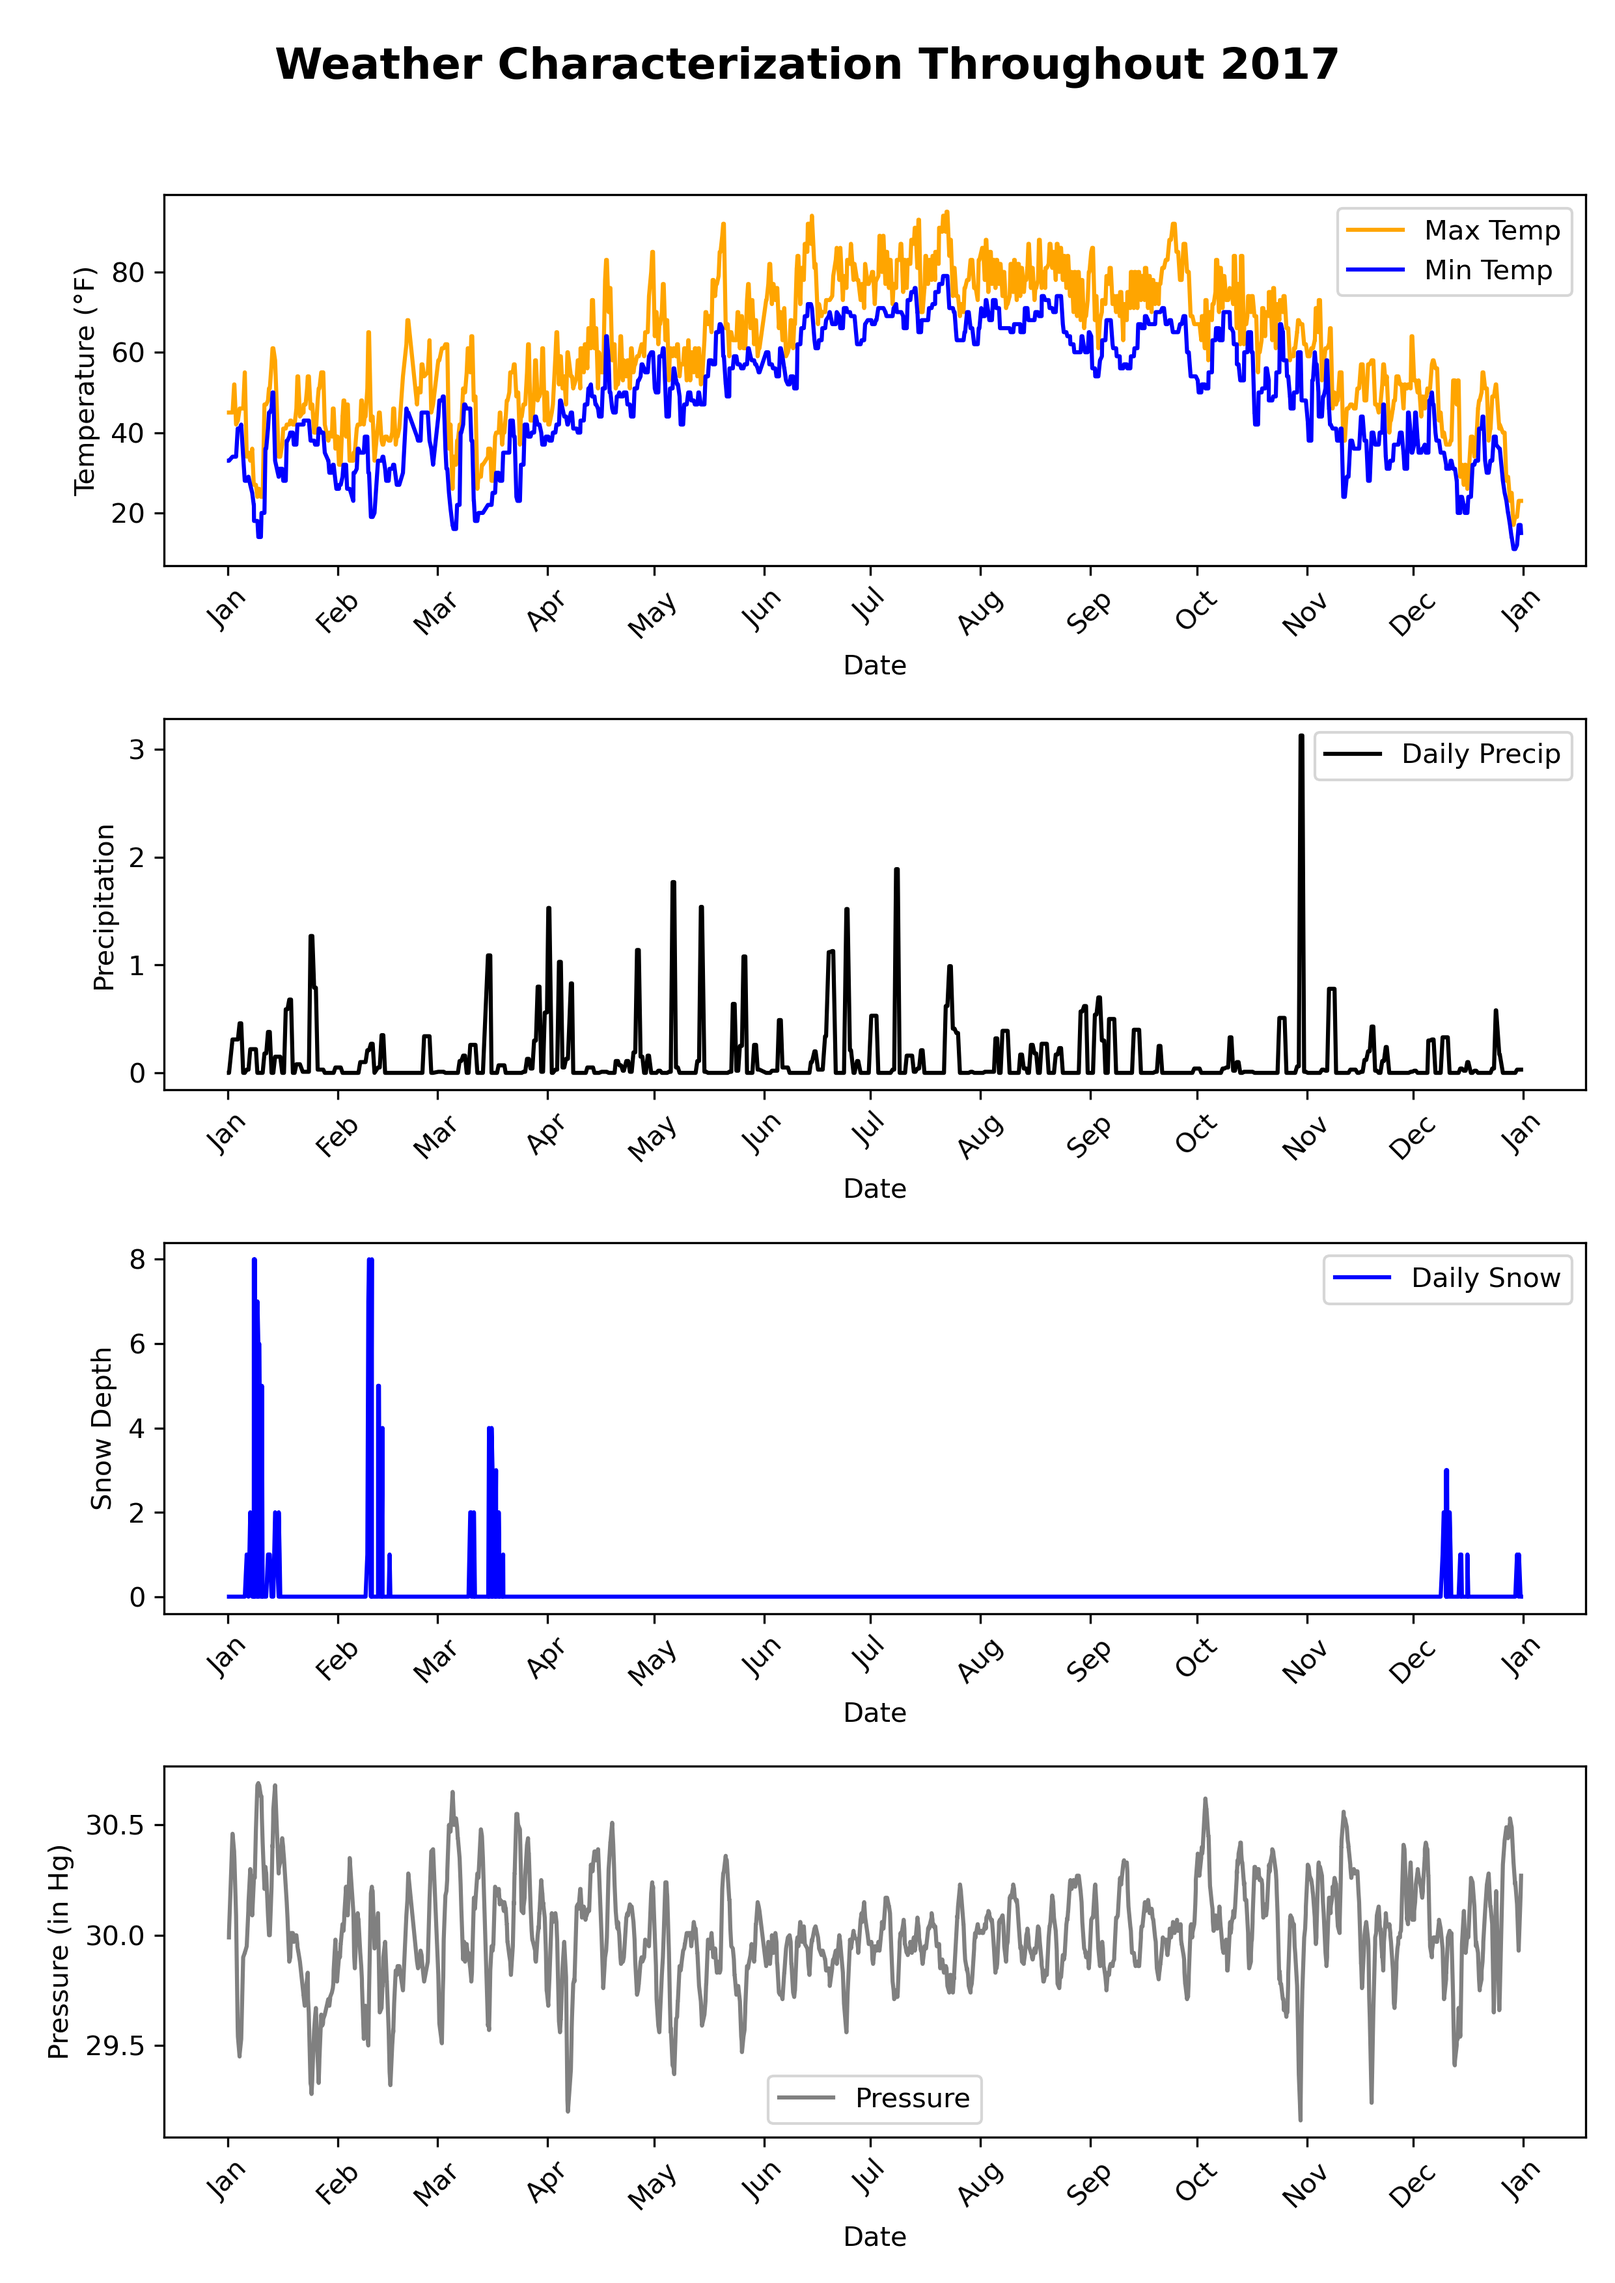
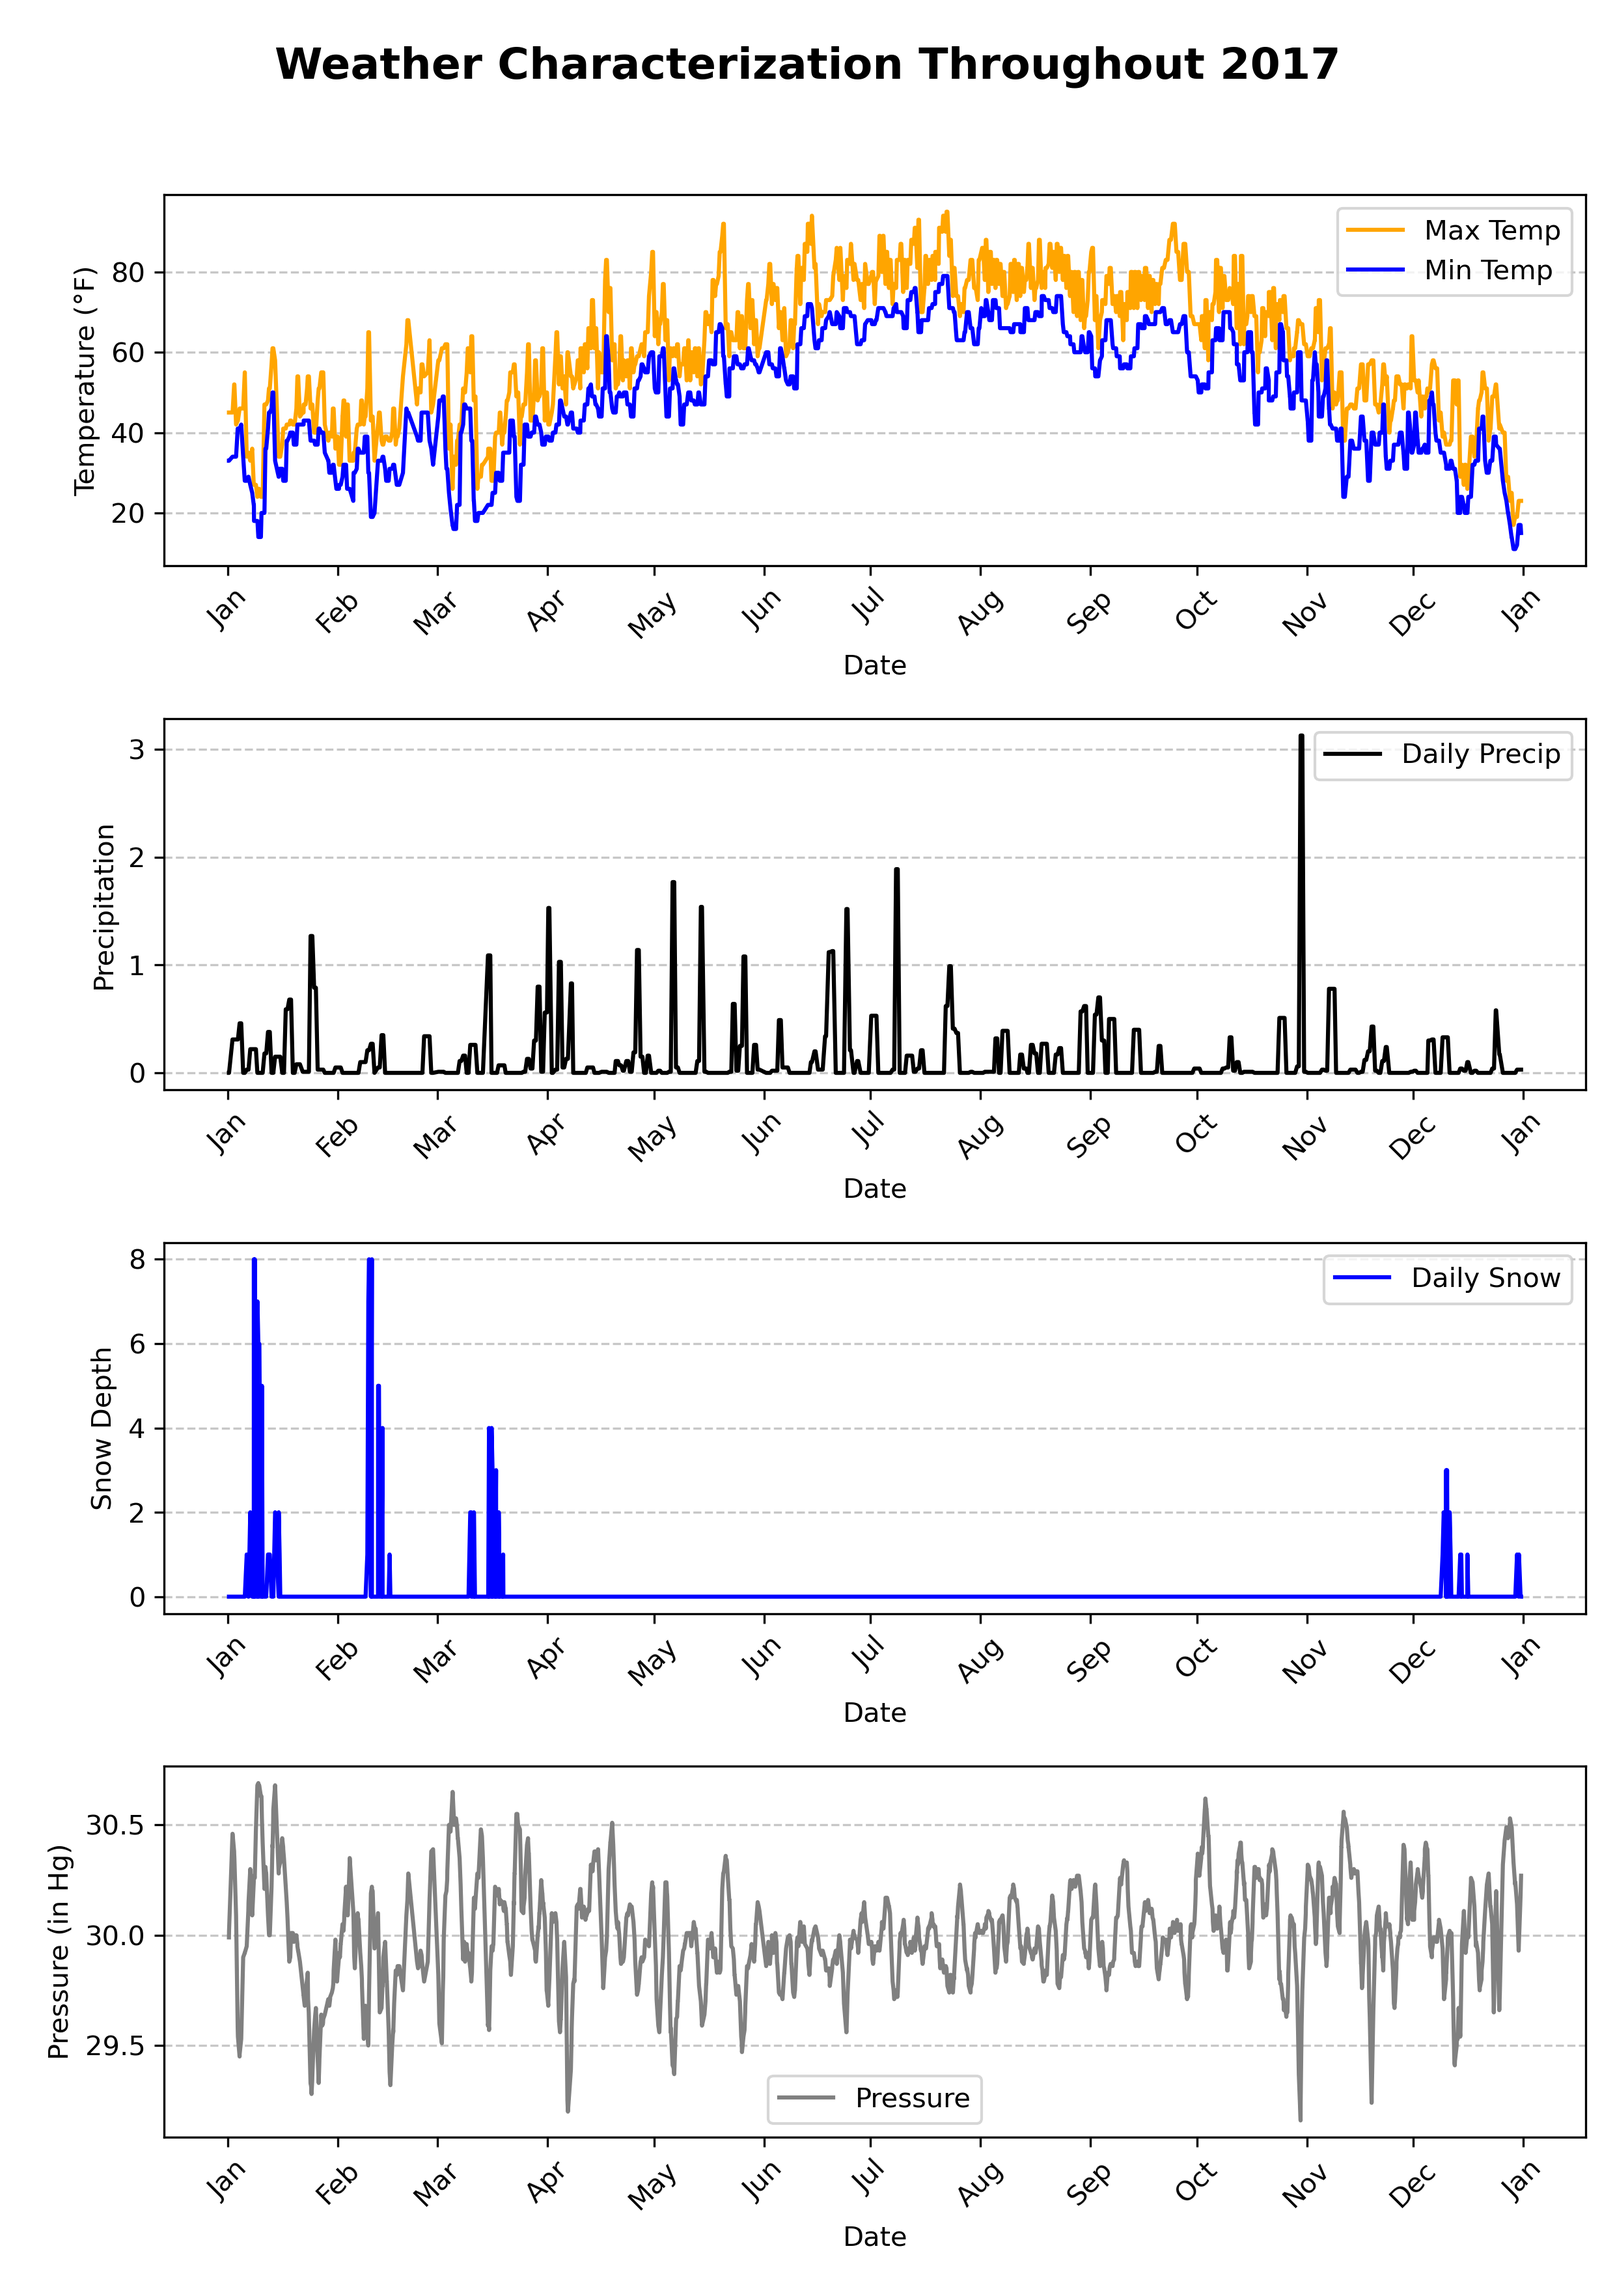
making graphs more beautiful

diff --git a/2_Data_exploration/stat_exploratoire.py b/2_Data_exploration/stat_exploratoire.py
@@ -154,31 +154,23 @@ def upload_to_s3(folder, file_name):
     buffer.close()'''
 
 
-#PARTIE 2 : Analyse exploratoire
-
-
-#STEP 1: Exploring the plane and weather datasets
-
-
-#weather_2017 = pd.read_csv('Pre-Processed_data/weather_2017.csv')
-#plane_weather = pd.read_csv('Pre-Processed_data/plane_weather.csv') #problem of encoding
-#TODO problem of encoding when i try to read files directly from S3
-
-
-
+#Load the data
 plane_weather = dataframes['plane_weather.csv']
 plane_weather_for_ML = dataframes['plane_weather_for_ML.csv']
 JFK_2017_number = dataframes['JFK_2017_number.csv']
 weather_2017 = dataframes['weather_2017.csv']
+plane_weather.drop(columns=['Unnamed: 0'], inplace=True)
+plane_weather_for_ML.drop(columns=['Unnamed: 0'], inplace=True)
+JFK_2017_number.drop(columns=['Unnamed: 0'], inplace=True)
+weather_2017.drop(columns=['Unnamed: 0'], inplace=True)
 
 
-
+#STEP 1: Exploring the plane and weather datasets
 
 plane_weather['Full_Departure_Datetime'] = pd.to_datetime(plane_weather['Full_Departure_Datetime'])
 plane_weather['DATE_weather'] = pd.to_datetime(plane_weather['DATE_weather'])
 print(plane_weather.info())
 
-'''
 # Retards moyens par mois
 plane_weather['Month'] = plane_weather['Full_Departure_Datetime'].dt.month
 monthly_delays = plane_weather.groupby('Month')[['DEP_DELAY', 'ARR_DELAY']].mean()
@@ -222,19 +214,19 @@ plt.grid(axis='y', linestyle='--', alpha=0.7)
 plt.savefig('/home/onyxia/work/Avions-Retard-et-Meteo/2_Data_exploration/pictures/3_Distrib_retard_météo.png')
 #upload_to_s3("Pictures", "3_Distrib_retard_météo.png")
 
-# Moyenne des retards dus aux conditions météorologiques par mois
-weather_delay_monthly = plane_weather.groupby('Month')['WEATHER_DELAY'].mean()
-
+# Somme des retards dus aux conditions météorologiques par mois
+weather_delay_monthly = plane_weather.groupby('Month')['WEATHER_DELAY'].sum()
 plt.figure(figsize=(10, 6))
 weather_delay_monthly.plot(kind='bar', color='teal', alpha=0.8, edgecolor='black')
-plt.title("Retards moyens dus à la météo par mois", fontsize=16)
-plt.ylabel("Retard moyen (minutes)", fontsize=12)
+plt.title("Somme des retards dus à la météo par mois", fontsize=16)
+plt.ylabel("Somme des retards (minutes)", fontsize=12)
 plt.xlabel("Mois", fontsize=12)
 plt.xticks(range(0, 12), ['Jan', 'Feb', 'Mar', 'Apr', 'May', 'Jun', 'Jul', 'Aug', 'Sep', 'Oct', 'Nov', 'Dec'], rotation=45)
 plt.grid(axis='y', linestyle='--', alpha=0.7)
-#plt.show()
-plt.savefig('/home/onyxia/work/Avions-Retard-et-Meteo/2_Data_exploration/pictures/4_Retard_météo_moyen.png')
+
+plt.savefig('/home/onyxia/work/Avions-Retard-et-Meteo/2_Data_exploration/pictures/4_Retard_météo_somme.png')
 #upload_to_s3("Pictures", "4_Retard_météo_moyen.png")
+plane_weather.drop(columns=['Month'], inplace=True)
 
 
 #Proportions of delays
@@ -262,8 +254,6 @@ plt.title('Average Proportion of Delay Explanations')
 
 plt.savefig('/home/onyxia/work/Avions-Retard-et-Meteo/2_Data_exploration/pictures/5_Proportions_of_delays.png')
 #upload_to_s3("Pictures", "5_Proportions_of_delay.png")
-
-#deleting the new columns
 plane_weather = plane_weather.drop(columns=['carrier_delay_ratio', 'weather_delay_ratio', 'unexplained_delay_ratio'])
 
 
@@ -284,12 +274,16 @@ def format_subplot(ax, data, x_column, y_column, label, color, ylabel):
 ax1 = plt.subplot(4, 1, 1)
 format_subplot(ax1, plane_weather, 'Full_Departure_Datetime', 'DAILYMaximumDryBulbTemp', 'Max Temp', 'orange', 'Temperature (°F)')
 sns.lineplot(data=plane_weather, x='Full_Departure_Datetime', y='DAILYMinimumDryBulbTemp', label='Min Temp', color='blue', ax=ax1)
+plt.grid(axis='y', linestyle='--', alpha=0.7)
 ax2 = plt.subplot(4, 1, 2)
 format_subplot(ax2, plane_weather, 'Full_Departure_Datetime', 'DAILYPrecip', 'Daily Precip', 'black', 'Precipitation')
+plt.grid(axis='y', linestyle='--', alpha=0.7)
 ax3 = plt.subplot(4, 1, 3)
 format_subplot(ax3, plane_weather, 'Full_Departure_Datetime', 'DAILYSnowDepth', 'Daily Snow', 'blue', 'Snow Depth')
+plt.grid(axis='y', linestyle='--', alpha=0.7)
 ax4 = plt.subplot(4, 1, 4)
 format_subplot(ax4, plane_weather, 'Full_Departure_Datetime', 'HOURLYStationPressure', 'Pressure', 'gray', 'Pressure (in Hg)')
+plt.grid(axis='y', linestyle='--', alpha=0.7)
 plt.tight_layout(rect=[0, 0, 1, 0.96])  # Adjust layout to avoid title overlap
 plt.savefig('/home/onyxia/work/Avions-Retard-et-Meteo/2_Data_exploration/pictures/6_weather_2017_summary.png', dpi=300)
 
@@ -320,6 +314,7 @@ for i, month in enumerate(months):
     ax = plt.subplot(3, 4, i+1)
     format_subplot(ax, month_data, 'DATE_weather', ['DAILYPrecip', 'DAILYSnowDepth', 'HOURLYStationPressure', 'DAILYAverageDryBulbTemp'], labels, colors, 'Values')
     ax.set_title(f'{month}')
+    plt.grid(axis='y', linestyle='--', alpha=0.7)
     
 plt.suptitle('Weather Month by Month', fontsize=16, fontweight='bold')
 
@@ -328,19 +323,18 @@ plt.tight_layout(rect=[0, 0, 1, 0.95]) # Adjust layout for title
 
 plt.savefig('/home/onyxia/work/Avions-Retard-et-Meteo/2_Data_exploration/pictures/7_month_by_month.png', dpi=300)
 
-plane_weather['DAILYPrecip'] = plane_weather['DAILYPrecip']/10 #to remove the modification'''
+plane_weather['DAILYPrecip'] = plane_weather['DAILYPrecip']/10 #to remove the modification
 
 
 
 
 #STEP 2: finding relations between the variables
-print(plane_weather_for_ML.info())
 corr_matrix = plane_weather_for_ML.corr()
 plt.figure(figsize=(13, 11))
 sns.heatmap(corr_matrix, annot=False, cmap='RdYlGn', center=0, cbar_kws={'label': 'Correlation Coefficient'}, linewidths=0.4, linecolor='black')
 ticks = np.arange(len(plane_weather_for_ML.columns))
-'''plt.xticks(ticks, np.arange(1, len(plane_weather_for_ML.columns) + 1), rotation=90)
-plt.yticks(ticks, np.arange(1, len(plane_weather_for_ML.columns) + 1), rotation=0)'''
+#plt.xticks(ticks, np.arange(1, len(plane_weather_for_ML.columns) + 1), rotation=90)
+#plt.yticks(ticks, np.arange(1, len(plane_weather_for_ML.columns) + 1), rotation=0)
 
 plt.xticks(ticks=np.arange(len(plane_weather_for_ML.columns)), labels=plane_weather_for_ML.columns, rotation=90)
 plt.yticks(ticks=np.arange(len(plane_weather_for_ML.columns)), labels=plane_weather_for_ML.columns, rotation=0)
@@ -422,7 +416,6 @@ for i in range(ax_idx, len(axes)):
 plt.tight_layout()
 
 plt.savefig('/home/onyxia/work/Avions-Retard-et-Meteo/2_Data_exploration/pictures/9_Scatter_plot.png', dpi=300)
-
 
 
 
